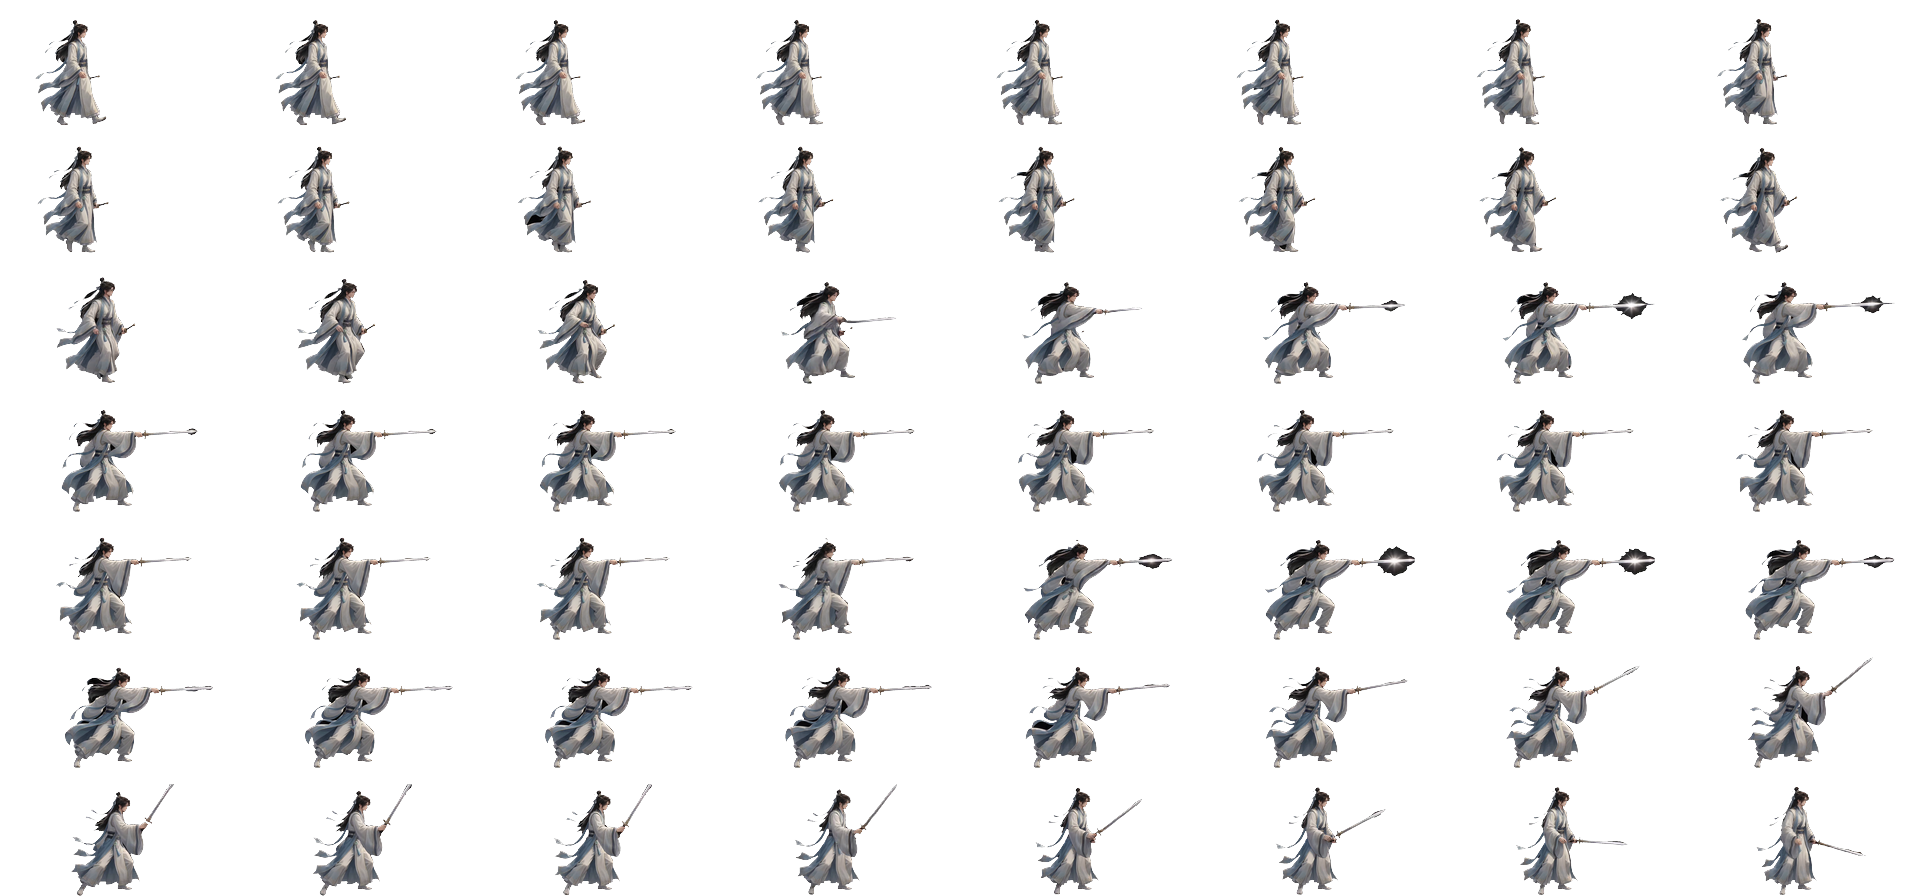
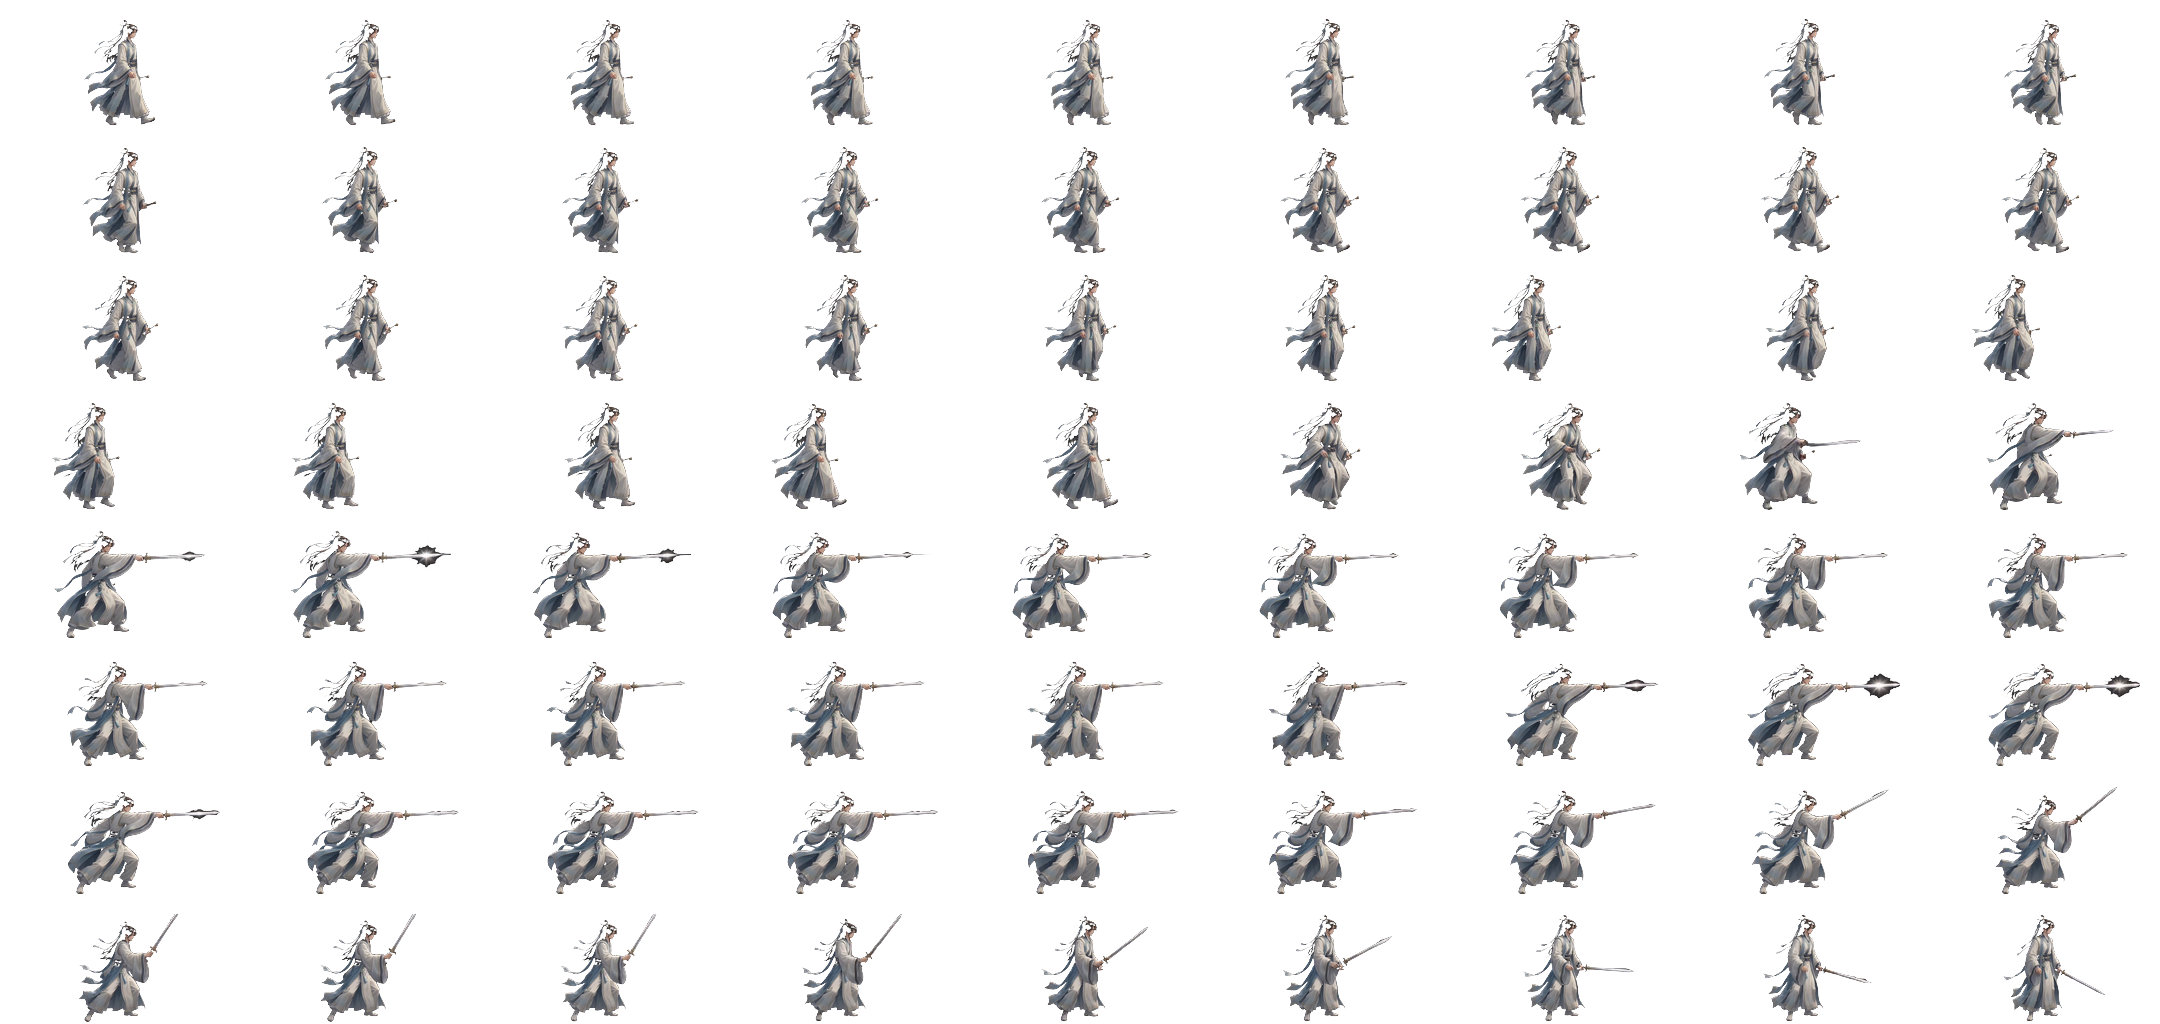
修复走路动画循环: walk从16帧改为32帧完整循环(源帧4-35), 首尾帧流畅; sprite sheet改为9列x8行72帧; 动态裁剪+底部对齐确保角色位置稳定

diff --git a/index.html b/index.html
@@ -744,7 +744,7 @@
   bgImg.src = 'assets/main-bg.jpg';
 
   /* Sprite 帧配置: 8列7行, 每帧240x128, walk=0-15, attack=16-55 */
-  const SPRITE = { cols:8, fw:240, fh:128, walkStart:0, walkCount:16, attackStart:16, attackCount:40, fps:24 };
+  const SPRITE = { cols:9, fw:240, fh:128, walkStart:0, walkCount:32, attackStart:32, attackCount:40, fps:24 };
 
   window.BattleAPI = {
     getKills: () => G.kills,
